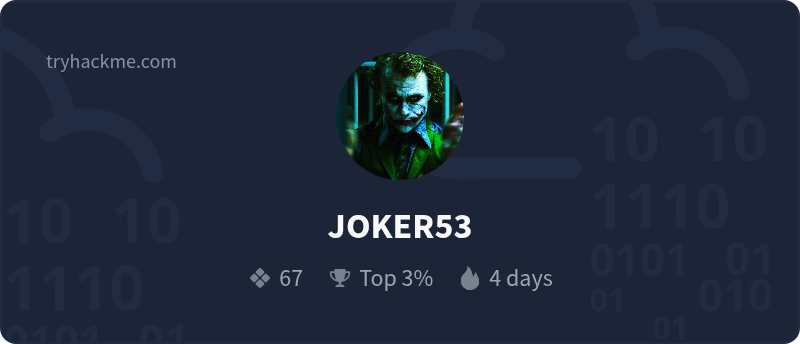
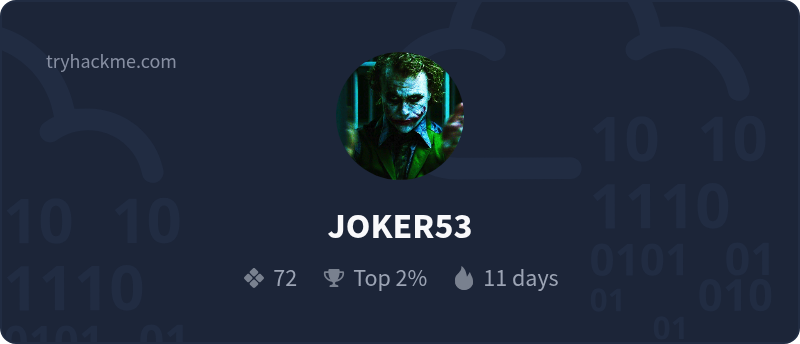
feat: update TryHackMe badge to Top 2% and 72 score with cache buster

Changed region(s): [[0.4062, 0.7849, 0.7188, 0.843], [0.2812, 0.7849, 0.375, 0.843], [0.4375, 0.6395, 0.4688, 0.6686]]

diff --git a/README.md b/README.md
@@ -114,11 +114,11 @@
 <img src="https://raw.githubusercontent.com/KADHIRAVANEG/KADHIRAVANEG/main/assets/headers/tryhackme.svg?v=2" alt="[ TRYHACKME ]" />
 <p align="center">
   <a href="https://tryhackme.com/r/p/JOKER53" target="_blank">
-    <img src="https://raw.githubusercontent.com/KADHIRAVANEG/KADHIRAVANEG/main/assets/components/thm-badge.png" height="180" alt="TryHackMe Profile Badge"/>
+    <img src="https://raw.githubusercontent.com/KADHIRAVANEG/KADHIRAVANEG/main/assets/components/thm-badge.png?v=2" height="180" alt="TryHackMe Profile Badge"/>
   </a>
   &nbsp;&nbsp;
   <a href="https://tryhackme.com/r/p/JOKER53" target="_blank">
-    <img src="https://raw.githubusercontent.com/KADHIRAVANEG/KADHIRAVANEG/main/assets/components/capability-score.png" height="180" alt="TryHackMe Capability Score"/>
+    <img src="https://raw.githubusercontent.com/KADHIRAVANEG/KADHIRAVANEG/main/assets/components/capability-score.png?v=2" height="180" alt="TryHackMe Capability Score"/>
   </a>
 </p>
 <br></br>
